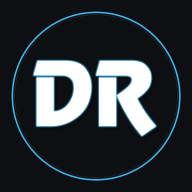
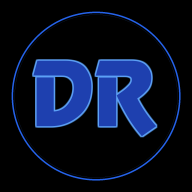
Auto-Update: 2026-05-18 15:04:56

diff --git a/generate_perfect_logo.php b/generate_perfect_logo.php
@@ -1,5 +1,5 @@
 <?php
-// PHP Script to mathematically render a premium "DR" logo using the authentic Revue font
+// PHP Script to mathematically render a premium "DR" logo using the authentic Revue font (Black Background & Dark Blue Text)
 
 $fontFile = __DIR__ . DIRECTORY_SEPARATOR . 'revue' . DIRECTORY_SEPARATOR . 'reve.ttf';
 
@@ -20,7 +20,7 @@ imagealphablending($img, true);
 imagesavealpha($img, true);
 
 // Colors
-$bgCol = imagecolorallocate($img, 14, 15, 18); // Deep Premium Graphite Slate (#0e0f12)
+$bgCol = imagecolorallocate($img, 0, 0, 0); // Solid Pure Black (#000000)
 imagefill($img, 0, 0, $bgCol);
 
 // Draw a beautiful premium glowing gradient circle
@@ -29,21 +29,21 @@ $centerY = $height / 2;
 $outerRadius = 450;
 $innerRadius = 442;
 
-// Draw a glowing electric cyan/blue circular ring (#38bdf8) with smooth antialiasing
+// Draw a glowing sapphire blue circular ring (#2563eb) with smooth antialiasing
 for ($r = $outerRadius; $r >= $innerRadius; $r--) {
     $opacity = 1.0 - (($outerRadius - $r) / ($outerRadius - $innerRadius));
     $alpha = (int)((1 - $opacity) * 127);
-    $glowCol = imagecolorallocatealpha($img, 56, 189, 248, $alpha); // Electric Cyan (#38bdf8)
+    $glowCol = imagecolorallocatealpha($img, 37, 99, 235, $alpha); // Sapphire Blue (#2563eb)
     imagefilledellipse($img, $centerX, $centerY, $r * 2, $r * 2, $glowCol);
 }
 
-// Re-fill inner circle to make it a ring
-$innerBgCol = imagecolorallocate($img, 14, 15, 18);
+// Re-fill inner circle with solid black
+$innerBgCol = imagecolorallocate($img, 0, 0, 0);
 imagefilledellipse($img, $centerX, $centerY, $innerRadius * 2, $innerRadius * 2, $innerBgCol);
 
-// Draw an inner subtle silver trim (#e2e8f0)
-$silverCol = imagecolorallocatealpha($img, 226, 232, 240, 80);
-imageellipse($img, $centerX, $centerY, ($innerRadius - 8) * 2, ($innerRadius - 8) * 2, $silverCol);
+// Draw an inner subtle sapphire/blue trim (#3b82f6)
+$trimCol = imagecolorallocatealpha($img, 59, 130, 246, 70);
+imageellipse($img, $centerX, $centerY, ($innerRadius - 8) * 2, ($innerRadius - 8) * 2, $trimCol);
 
 // Font settings for "DR"
 $fontSize = 320;
@@ -54,31 +54,31 @@ $bbox = imagettfbbox($fontSize, 0, $fontFile, $text);
 $textWidth = $bbox[2] - $bbox[0];
 $textHeight = $bbox[1] - $bbox[7];
 
-// Fine-tuned visual offsets for Revue font centering
+// Centering coordinates
 $x = ($width - $textWidth) / 2 - 20; // Slight shift left to balance visual weight
 $y = ($height + $textHeight) / 2 - 40; // Center baseline vertically
 
 echo "📐 Calculated Font Box Width: {$textWidth}px, Height: {$textHeight}px\n";
 echo "🎯 Coordinates: X={$x}, Y={$y}\n";
 
-// 1. Draw a beautiful soft drop shadow for that premium "lifted" look
+// 1. Draw a beautiful dark drop shadow
 $shadowOffset = 18;
-$shadowCol = imagecolorallocatealpha($img, 0, 0, 0, 95); // Heavy semi-transparent black
+$shadowCol = imagecolorallocatealpha($img, 0, 0, 0, 110);
 imagettftext($img, $fontSize, 0, $x + $shadowOffset, $y + $shadowOffset, $shadowCol, $fontFile, $text);
 
-// 2. Draw a secondary blue glow behind the text
-$glowOffset = 6;
-$glowCol = imagecolorallocatealpha($img, 56, 189, 248, 110); // Glowing Electric Cyan
-for ($dx = -$glowOffset; $dx <= $glowOffset; $dx += 3) {
-    for ($dy = -$glowOffset; $dy <= $glowOffset; $dy += 3) {
+// 2. Draw a gorgeous soft light-blue ambient glow (#60a5fa) behind the dark blue text to make it pop!
+$glowOffset = 8;
+$glowCol = imagecolorallocatealpha($img, 96, 165, 250, 100); // Light blue glow
+for ($dx = -$glowOffset; $dx <= $glowOffset; $dx += 2) {
+    for ($dy = -$glowOffset; $dy <= $glowOffset; $dy += 2) {
         if (abs($dx) + abs($dy) > 0) {
             imagettftext($img, $fontSize, 0, $x + $dx, $y + $dy, $glowCol, $fontFile, $text);
         }
     }
 }
 
-// 3. Draw the main crisp white text in the foreground
-$fgCol = imagecolorallocate($img, 255, 255, 255); // Pure White
+// 3. Draw the main text in deep, premium Dark Cobalt Blue (#1e40af)
+$fgCol = imagecolorallocate($img, 30, 64, 175); // Dark Cobalt Blue (#1e40af)
 imagettftext($img, $fontSize, 0, $x, $y, $fgCol, $fontFile, $text);
 
 // Save generated logo
